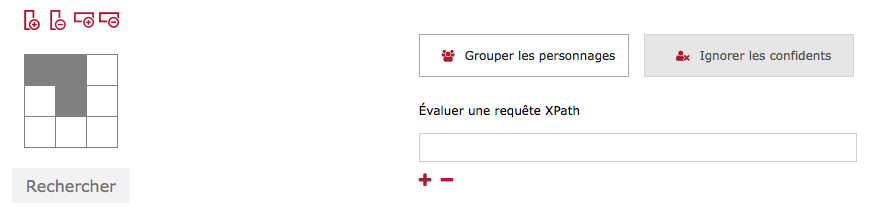
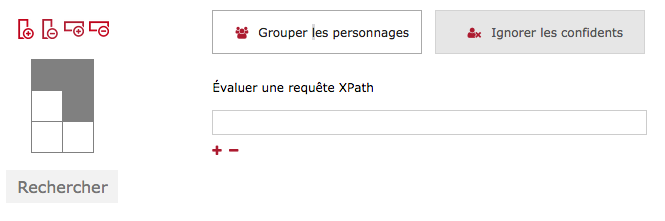
info

diff --git a/tpl/header.tpl.php b/tpl/header.tpl.php
@@ -15,12 +15,27 @@
     <div id="info" style="width:1200px;height:1200px;overflow:auto;">
         <h2>MAnaDram</h2>
         <p>MAnaDram est un moteur d'analyse dramaturgique qui recherche dans un corpus de pièces de théâtre tous les groupes de scènes présentant la même séquence d'entrée et de sortie des personnages.</p>
+	<h3>Recherche à l'aide de la matrice</h3>
         <h4>Exemples</h4>
         <p>Dessiner le motif à rechercher en cliquant sur les cases du tableau. Chaque ligne correspond à un personnage, chaque colonne à une scène.</p>
         <p><img src="img/A-AB-A.png"/></p>
         <p>trouvera toutes les séquences de trois scènes, faisant intervenir deux personnages et deux personnages seulement, dont l'un reste présent en permanence, et dont l'autre n'est présent que durant la scène centrale.</p>
-        <p><img src="img/A.png"/></p>
-        <p>trouvera tous les monologues.</p>
+        <h4>Débuts et fins d'acte</h4>
+	<p>Une colonne vide représente un entracte ou le début ou la fin de la pièce.</p>
+        <p><img src="img/A--A.png"/></p>
+	<p>trouvera tous les entractes entourés par deux monologues d'un même personnage.</p>
+	<br/>
+	<p>Quand le motif dessiné ne commence et ne se finit par une colonne vide, la recherche ne prends pas en compte sa position à l'intérieur de la pièce.</p>
+        <p><img src="img/A-AB-B.png"/></p>
+        <p>trouvera toutes les séquences de trois scènes où un personnage prononce un monologue et en rencontre un autre qui, dans un troisième temps, reste à son tour seul sur le plateau, que cette séquence se trouve au milieu, au début ou à la fin d'un acte.</p>
+	<br/>
+	<p>En revanche</p>
+        <p><img src="img/A-AB-.png"/></p>
+	<p>trouvera toutes les séquences où un personnage monologue puis dialogue avec un autre personnage, et qui se situent à la fin d'un acte.</p>
+	<br/>
+	<p>Pour élargir la recherche, réduire le nombre de colonnes de la matrices grâce au bouton <img src="img/delcol.png" style="height:15px;display: inline;margin:0;">.</p>
+        <p><img src="img/A-AB.png"/></p>
+	<p>trouvera toutes les séquences où un personnage monologue puis dialogue avec un autre personnage, quelle que soit sa position dans la pièce. Par conséquent, il est impossible de ne trouver que les occurrences d'un motif donné qui se trouvent au milieu d'un acte, à l'exclusion des occurrences situées au début ou à la fin d'un acte.</p>
         <h4>Grouper les personnages</h4>
         <p><img src="img/A-AB-A-G.png"/></p>
         <p>trouvera toutes les séquences de trois scènes, faisant intervenir deux personnages ou groupes de personnages, dont l'un reste présent en permanence, et dont l'autre n'est présent que durant la scène centrale.</p>
@@ -29,15 +44,16 @@
         <h4>Ignorer les confidents</h4>
         <p><img src="img/A-AB-C.png"/></p>
         <p>trouvera toutes les séquences de deux scènes où un personnage (et un seul) vient en trouver un autre qui était seul sur le plateau, ainsi que celles où un confident est en outre présent durant l'une et/ou l'autre de ces scènes</p>
-        <h4>Requête XPath</h4>
-        <p>Les requêtes sont évaluées à partir de la première scène de chaque séquence correspondant au motif recherché. Le résultat affiché correspond au nombre d'éléments renvoyés par la requête</p>
-        <p>La requête doit respecter la syntaxe XPath 1.0. Les éléments doivent être précédés de l'espace de nom "tei"</p>
-        <ul>
-            <li>./parent::* récupère l'acte courant </li>
-            <li>./tei:sp renvoie le nombre de répliques de la scène</li>
-        </ul>
-        <br/>
-        <h4>Données</h4>
+	<br/>
+	<h3>Recherche par code</h3>
+	<p>Il est possible de rechercher un ou plusieurs motifs par son code en cliquant sur le bouton<i class="fa fa-th tooltip-s"></i>. Les différents motifs doivent être séparés par un saut de ligne.</p>
+	<ul>
+	    <li>Chaque personnage ou groupe de personnage distinct est identifié par une lettre majuscule, selon l'ordre dans lequel ils entrent sur le plateau, puis selon l'ordre inverse dans lequel ils en sortent.</li>
+	    <li>Les scènes sont séparées par /.</li>
+	    <li>Les personnages ou groupes de personnages, à l'intérieur d'une scène, par -.</li>
+	    <li>// indique un entracte.</li>
+	</ul>
+        <h3>Données</h3>
         <ul>
         <li><a href="http://theatre-classique.fr/">Théâtre classique (Paul Fièvre)</a></li>
         <li><a href="http://bibdramatique.paris-sorbonne.fr/">Bibliothèque dramatique (UMR CELLF 16-21)</a></li>
